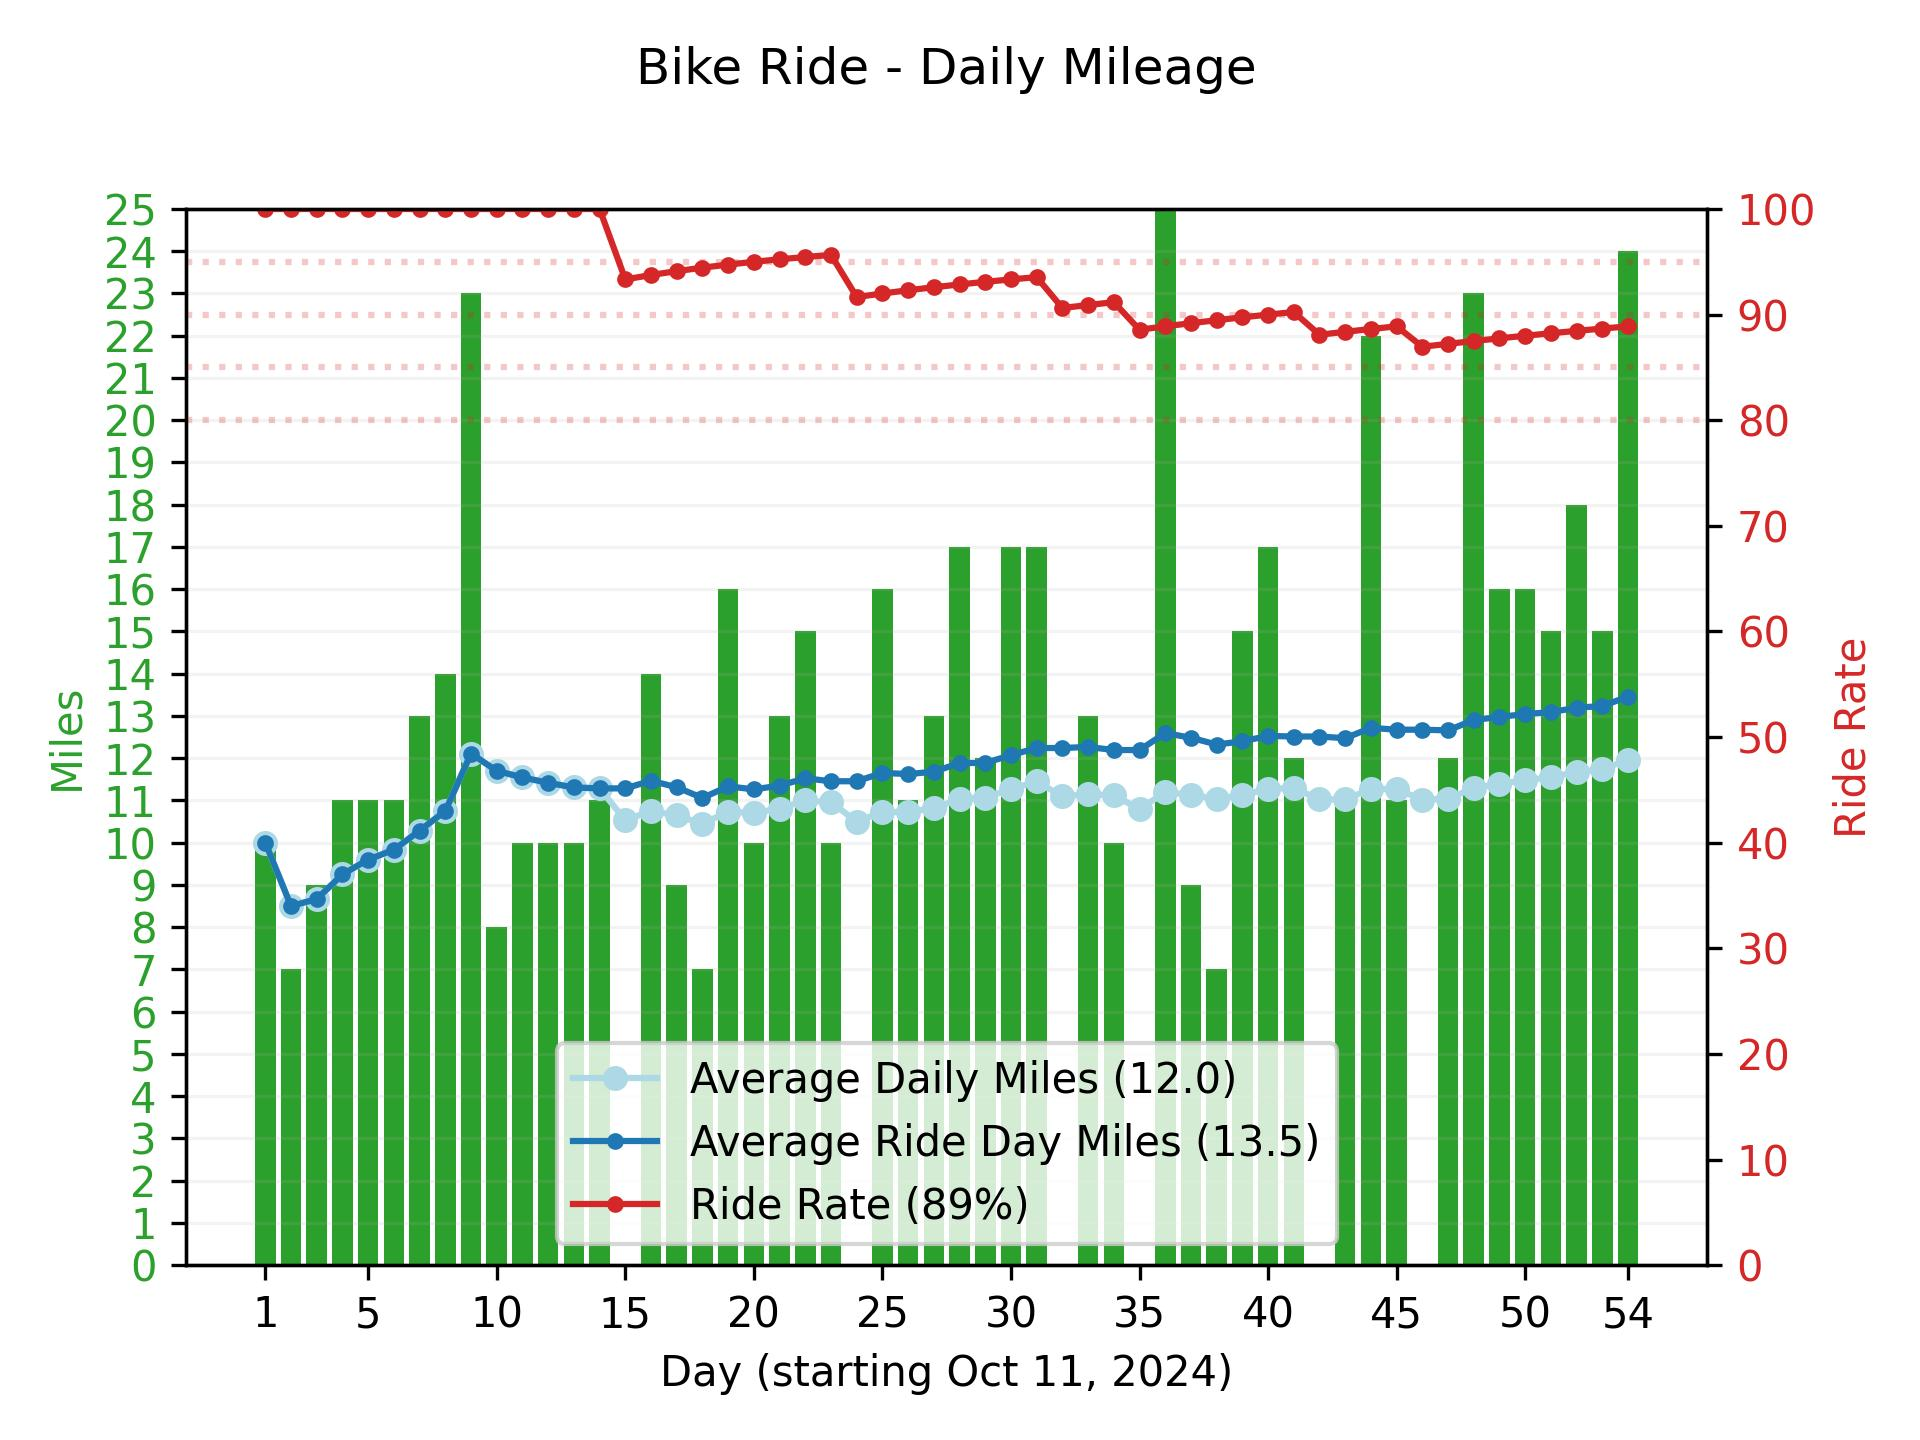
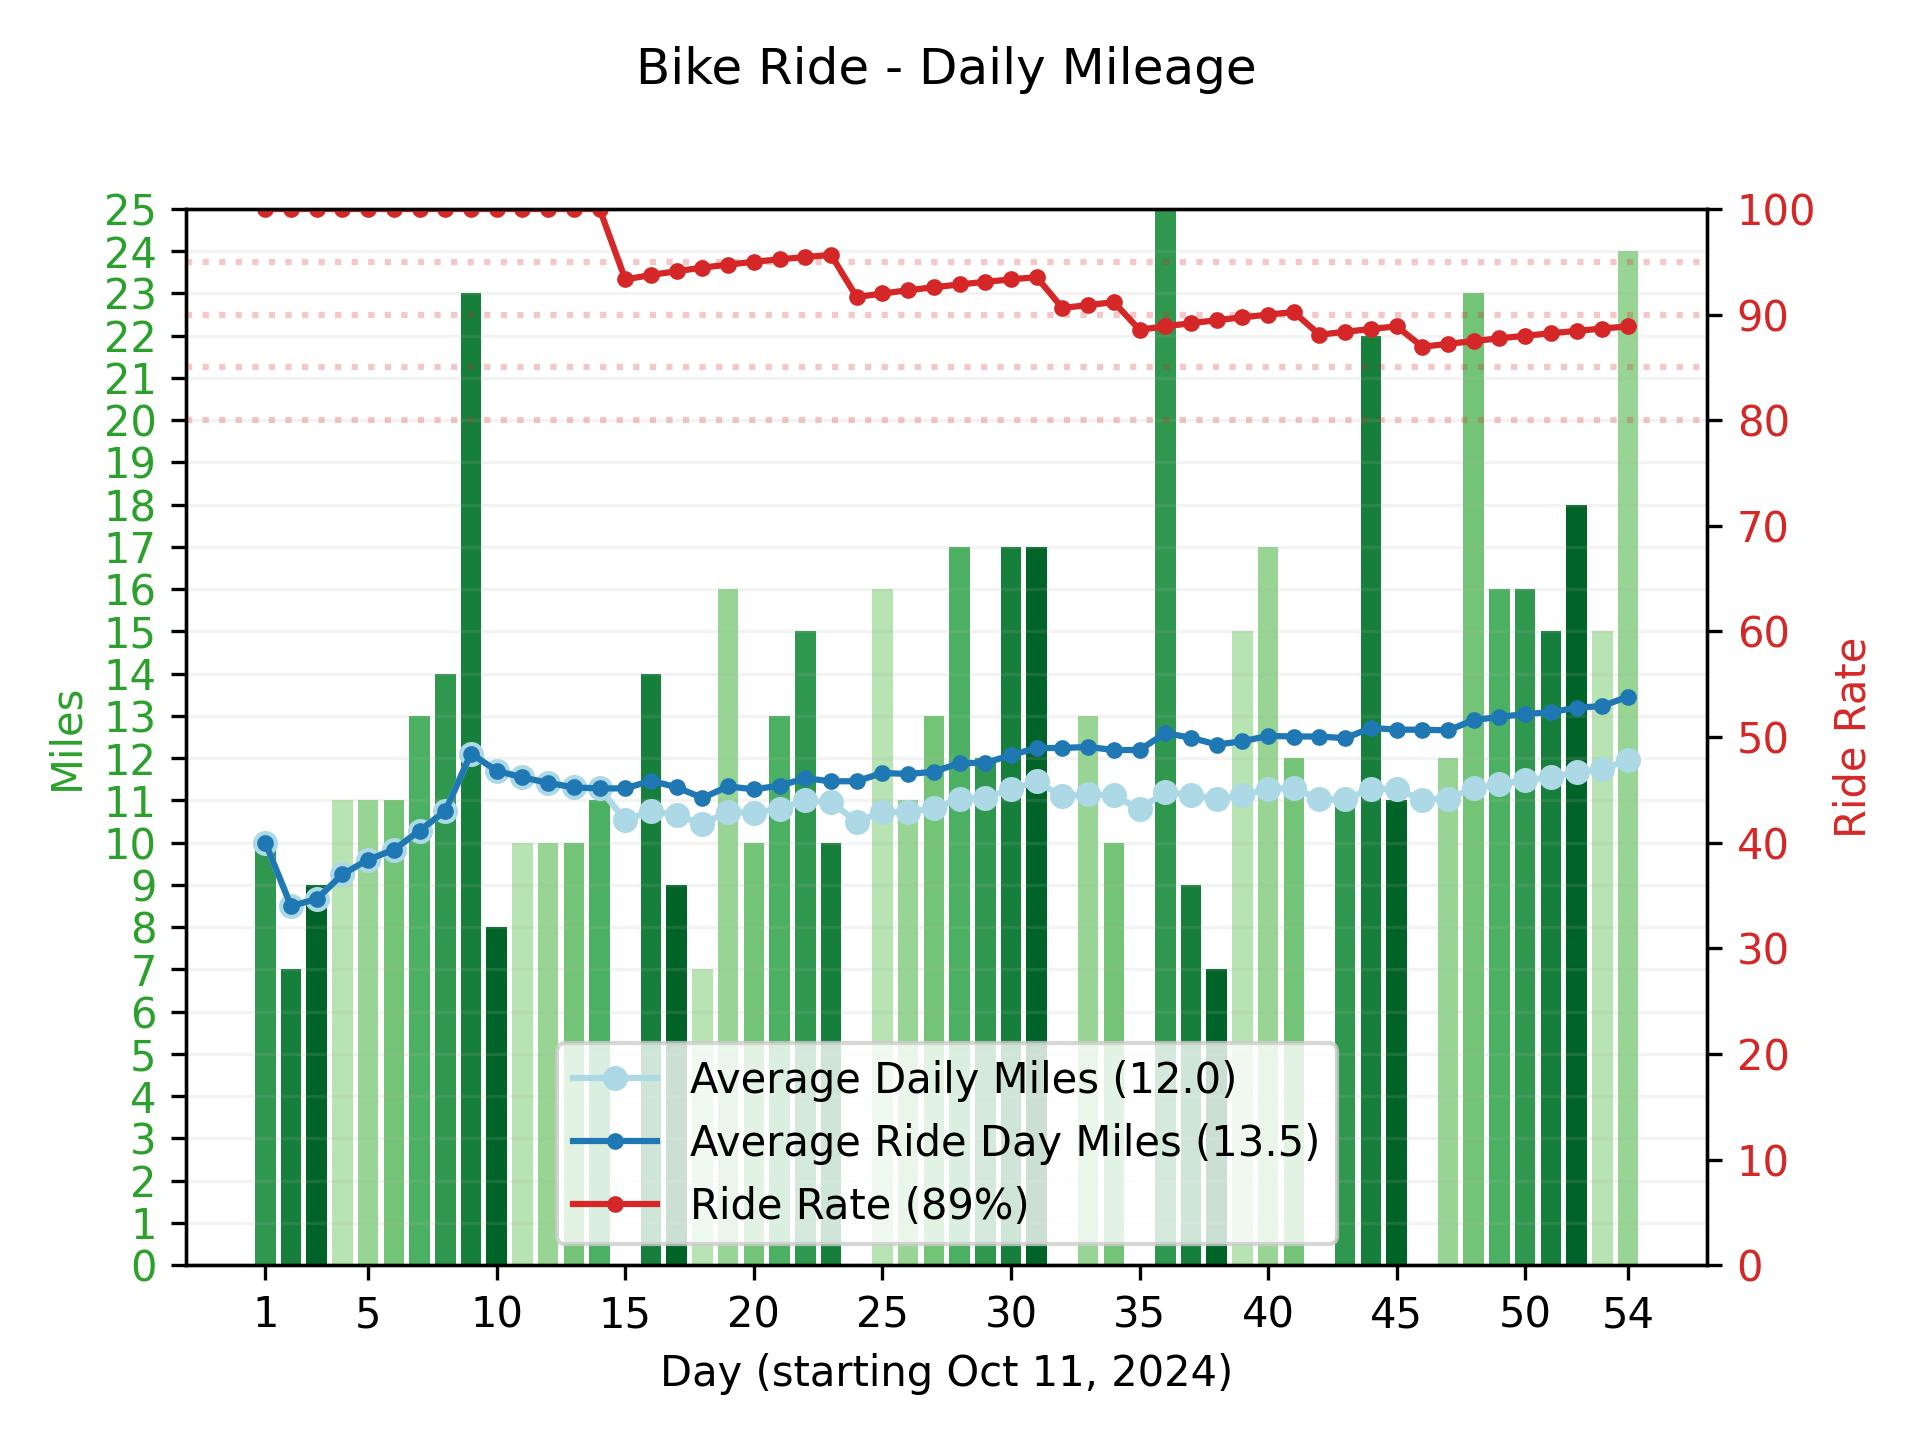
indicate DOW via shades of green bars

Changed region(s): [[0.125, 0.1562, 0.875, 0.875]]

diff --git a/src/show_stats.py b/src/show_stats.py
@@ -1,6 +1,8 @@
 #!/usr/bin/env python
 
+import calendar
 import matplotlib.pyplot as plt
+import numpy as np
 import os
 import re
 
@@ -44,6 +46,7 @@ def parse_raw_data(path):
 def calculate_stats(path):
     daily_mileage, date_range = parse_raw_data(path)
     first_date, last_date = date_range
+    first_day_of_week = calendar.weekday(first_date.year, first_date.month, first_date.day)
 
     num_days = 0
     num_biked_days = 0
@@ -84,6 +87,7 @@ def calculate_stats(path):
     stats = dict(
         data=data,
         first_date=first_date,
+        first_day_of_week=first_day_of_week,
         last_date=last_date,
         max_miles=max_miles,
         min_miles=min_miles,
@@ -136,6 +140,22 @@ def get_ticks(num_days, period):
     return offsets, labels
 
 
+def get_colors(stats):
+    day_of_week = stats["first_day_of_week"]
+    num_days = stats["num_days"]
+
+    days_of_week = []
+
+    for _ in range(num_days):
+        days_of_week.append(day_of_week)
+        day_of_week = (day_of_week + 1) % 7
+
+    shades_of_green = plt.cm.Greens(np.linspace(0.3, 0.9, 7))
+    colors = [shades_of_green[d] for d in days_of_week]
+
+    return colors
+
+
 def plot_daily_miles(stats, graph_file):
     num_days = stats["num_days"]
     x = list(range(num_days))
@@ -162,7 +182,9 @@ def plot_daily_miles(stats, graph_file):
 
     plt.grid(axis="y", linestyle="-", alpha=0.15)
 
-    ax1.bar(x, y, color=color)
+    colors = get_colors(stats)
+
+    ax1.bar(x, y, color=colors)
     line1, = ax1.plot(x, avg_y, color="lightblue", marker="o", markersize=5)
     line2, = ax1.plot(x, avg_ride_day_y, color="tab:blue", marker="o", markersize=3)
 
